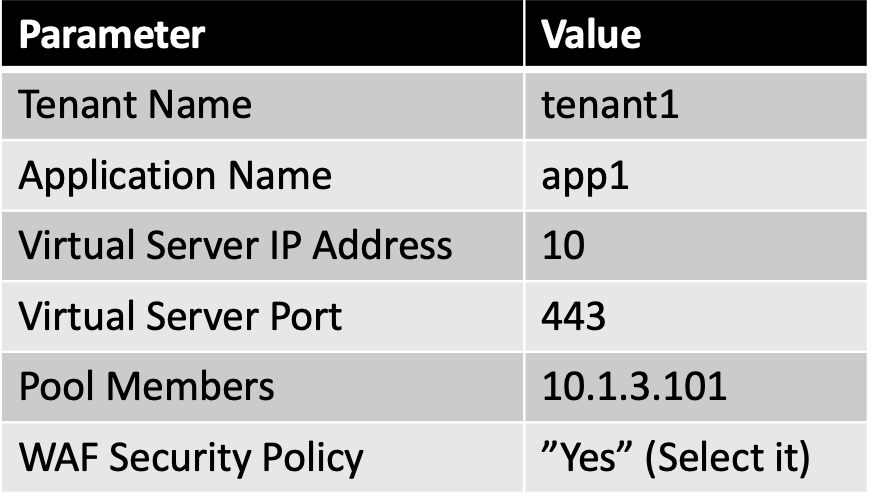
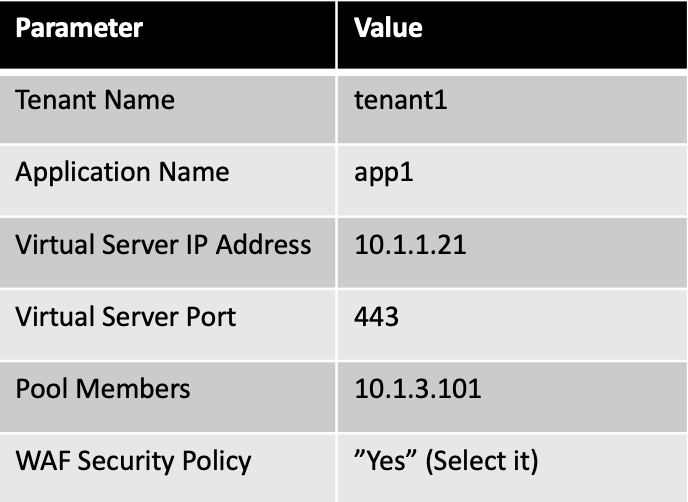
upgrades

diff --git a/failover-via-api/payg/3-nic-basic-deployment/docs/module_4/task4_3.md b/failover-via-api/payg/3-nic-basic-deployment/docs/module_4/task4_3.md
@@ -7,7 +7,7 @@ Key aspect for day 1 modifications is the ability to add new applications and to
 Satisfied with the result to create new applications by using FAST, the ADC admin continues deploying new applications using FAST. Existing application **http-service** needs modification.
 
 
-**Step 1:** Before deploying the new applications with FAST you need to create a WAF policy on the BIG-IP via the GUI in partition Common. 
+**Step 1:** Before deploying the new applications with FAST you need to create a WAF policy on the BIG-IP via the GUI in partition **Common**. 
 
 The **simple-waf** template , used in **4.3-create-https-waf-app-via-fast.json**, only supports the use of existing WAF policies in partition Common. Therefore, we need to create a WAF policy via the BIG-IP GUI first.
 
@@ -15,14 +15,15 @@ Go to parttition /Common, name the WAF policy **new_waf_policy** and hit **Save*
 
 ![](../png/module4/task4_3_p1.png)
 
-**Step 2:** Repeat steps 3 and 4 for applications:
+**Step 2:** Repeat steps 3 and 4 for applications and use your **student number** to change the **IP address B octet** and save the changes with **Ctrl+s**:
 * 4.2-create-https-app-via-fast.json
 * 4.3-create-https-waf-app-via-fast.json
 After deploying both apps you should have these views on the BIG-IP.
 
 ```
 Note:
-Make sure the defined IP addresses are matching your defined CIDR and network octets. Align the given values with your student number.
+Make sure the defined IP addresses are matching your defined CIDR and network octets. 
+Align the given values with your student number.
 ```
 
 ![](../png/module4/task4_3_p2.png)
@@ -57,14 +58,15 @@ Change it from `10.x.1.21` to `10.x.1.29` and click **Deploy**.
 
 The poolmember will show 'red' because there is no real node behind, it's just being defined for expanding the config.
 
-**Step 6:** Next let's delete a complete app service and check how this goes. Go to the BIG-IP GUI F5 Applications Services Template section select **Applications** and select application **app1** and delete it.
+**Step 6:** Next, lets delete a complete app service and check how this goes. Go to the **BIG-IP GUI F5 Applications Services Template** section, select **Applications** and select application **app1** and delete it.
 
 Question:
 * Are other app services still available?
 
-**Step 7:** Delete another app by using cURL. Go to the BIG-IP CLI via SSH and deploy the following command in BIG-IP Shell. 
+**Step 7:** Delete another app by using cURL. Go to the BIG-IP CLI via SSH and deploy the following command in BIG-IP Shell. Change the **Username** and **Password** and make sure you include the **BIG-IP mgmt IP address**.
 
-**curl -sk -u auser:F5twister2020! -H "Accept: application/json" -H "Content-Type: application/json" -X DELETE https://`bigip-mgmt-pub-ip`/mgmt/shared/fast/applications/tenant1/http-service**
+**curl -sk -u username:password -H "Accept: application/json" -H "Content-Type: application/json" -X DELETE https://bigip-mgmt-pub-ip/mgmt/shared/fast/applications/tenant1/http-service**
+
 
 **Step 8:** Check via the BIG-IP GUI if the application **http-service** got removed.
 

diff --git a/failover-via-api/payg/3-nic-basic-deployment/docs/module_3/task3_6.md b/failover-via-api/payg/3-nic-basic-deployment/docs/module_3/task3_6.md
@@ -60,7 +60,7 @@ Let's redeploy Terraform with **terraform apply -auto-approve** and watch the Te
 ![](../png/module3/task3_6_p7.png)
 
 
-**Step 9:** In the same way we can delete an entire Tenant. Open file **use_case_6.tpl** once again and remove all applications so we create an empty tenant. Below you will find from what should be left from the template file. Save the file after the change with **'Ctrl+s'**.
+**Step 9:** In the same way we can delete an entire Tenant. Open file **use_case_6.tpl** once again and remove all applications so we create an empty tenant. Below you will find from what should be left from the template file (or just copy and paste AS3.json as ahown here in the guide). Save the file after the change with **'Ctrl+s'**.
 
 ```
 AS3.json:
@@ -81,7 +81,9 @@ AS3.json:
 ```
 
 Notice:
-* All applications are being removed.
+* Terraform will return with an error "Error: Provider produced inconsistent result after apply". This issue is reported and tracked: https://github.com/F5Networks/terraform-azure-bigip-module/issues/14
+
+* All applications and tenant are being removed, check the BIG-IP GUI.
 * The comma (**,**) after **"class": "Tenant"** has been removed to be syntactically correct.
 
 **Step 10:** Redeploy Terraform with **terraform apply -auto-approve** and login to the GUI of the BIG-IP and select the partitions section. Is **lab_2** Still there?

diff --git a/failover-via-api/payg/3-nic-basic-deployment/docs/module_4/task4_2.md b/failover-via-api/payg/3-nic-basic-deployment/docs/module_4/task4_2.md
@@ -26,11 +26,12 @@ In the opened field, fill in the BIG-IP **username@mgmt-pub-ip** and press enter
 Notice:
 * Once the BIG-IP connects to VSC via the F5 Extension, the BIG-IP config gets read and shown in the left pane.
 
-**Step 4:** Go back tofile **4.1-create-http-via-fast.json** and check the JSON body and the declared Virtual Server and poolmember. Make sure the defined IP addresses are matching your defined CIDR and network octets. Align the given values with your **student number**.
+**Step 4:** Go back to file **4.1-create-http-via-fast.json** and check the JSON body and the declared Virtual Server and poolmember. Make sure the defined IP addresses are matching your defined CIDR and network octets. Align the given values with your **student number**.
 
 **Step 5:** Once again select the file **4.1-create-http-via-fast.json**, select the JSON body and perform a right-click and select **Deploy FAST App**.
 
 ![](../png/module4/task4_2_p5.png)
+(Shown IP addresses will not be the same as yours, be sure to replace the B octet of the IP address with your **student number**)
 
 Deployment of the FAST template will generate an **Untitled-1** json response.
 

diff --git a/failover-via-api/payg/3-nic-basic-deployment/docs/module_6/task6_2.md b/failover-via-api/payg/3-nic-basic-deployment/docs/module_6/task6_2.md
@@ -15,7 +15,7 @@ This task will go through the testing of how Cloud failover functions during a f
 
 ```
 Note:
-When you want to use your own laptop to login to the BIg-IPs that's okay.
+When you want to use your own laptop to login to the BIG-IPs that's okay.
 ```
 
 **Step 3:** At both BIG-IP shell prompts type:
@@ -50,7 +50,9 @@ Question:
 
 ```
 Note:
-The Failover via-API in Azure taskes ~95s of failover time. This is far too long and not usable in production. But just be aware that both AWS and GCP do offer better failover times.
+The Failover via-API in Azure taskes ~95s of failover time. 
+This is far too long and not usable in production. 
+Just be aware that both AWS and GCP do offer better failover times.
 ```
 
 **Step 8:** Go back to your application in the browser and refresh it. 
